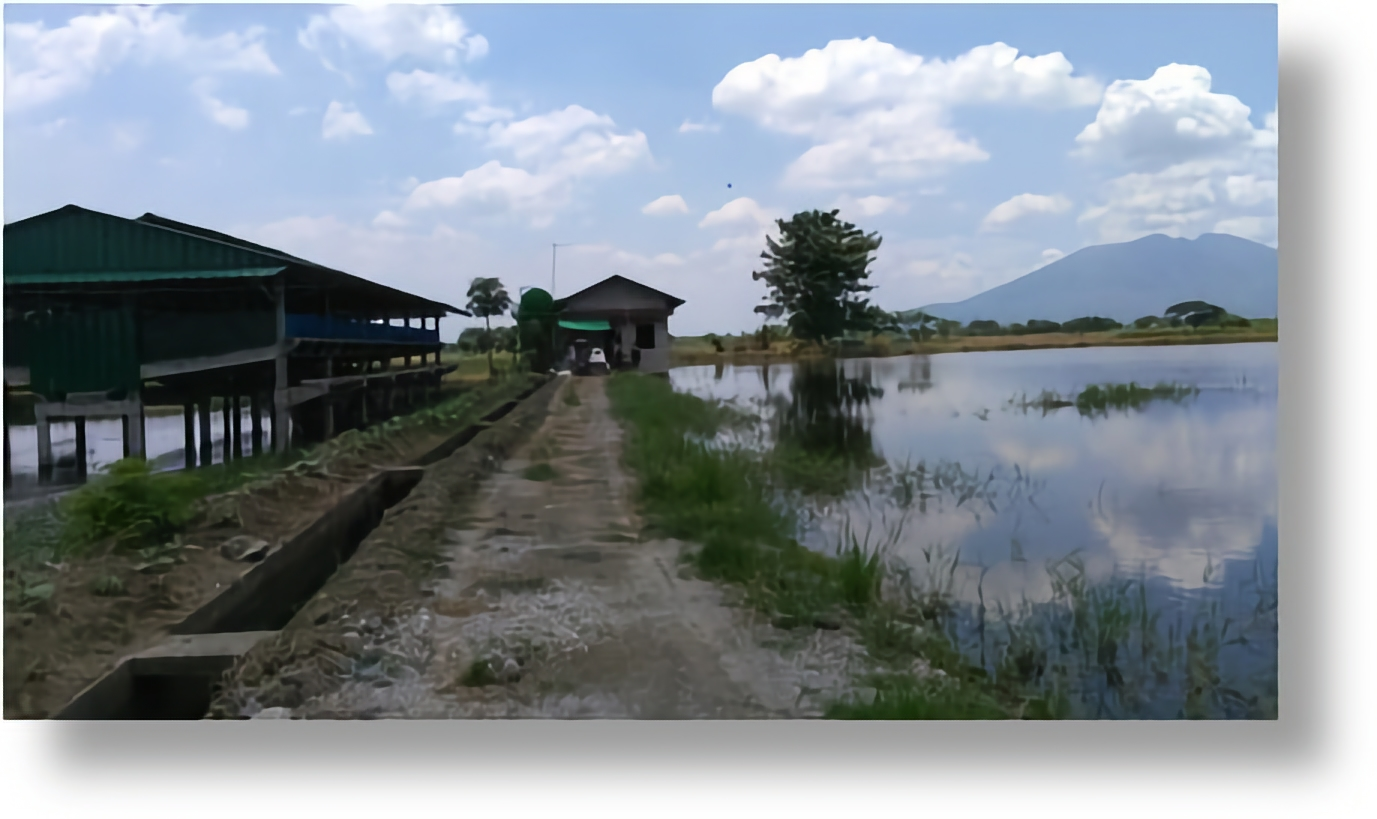
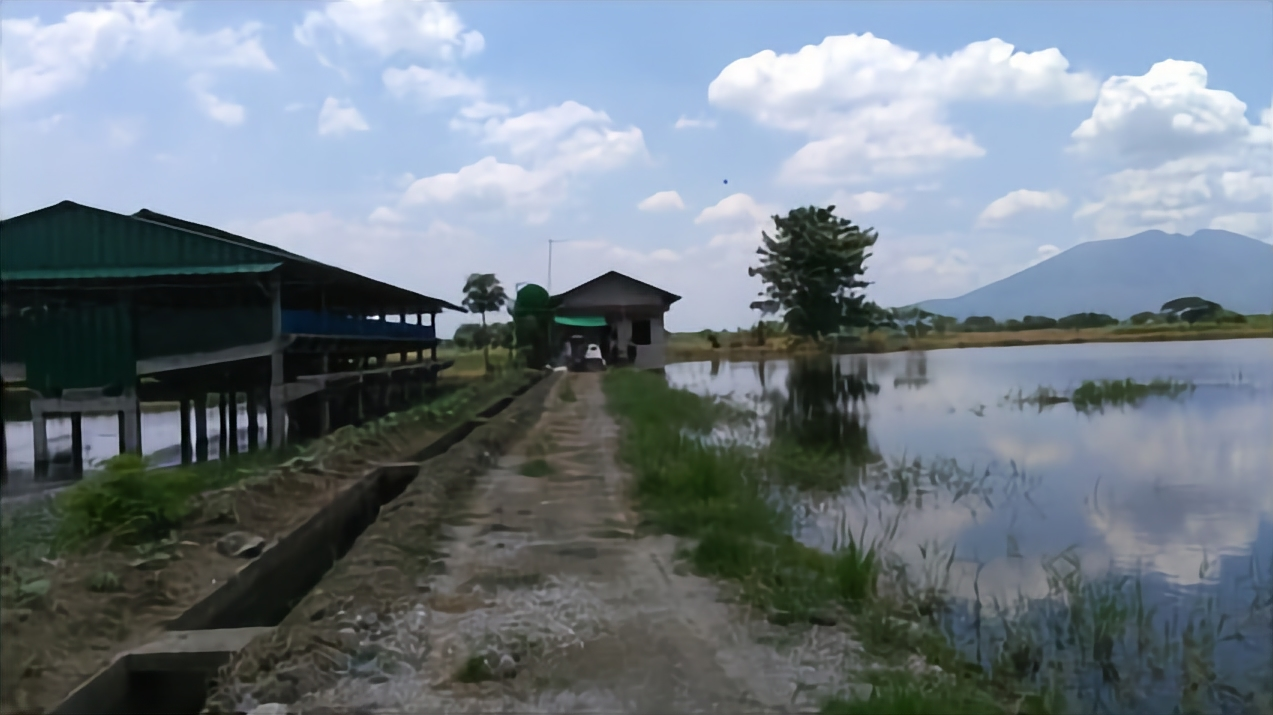
Fixed qr code image size, changed farm image to look a bit nicer

diff --git a/themes/capulong/static/css/style.css b/themes/capulong/static/css/style.css
@@ -170,7 +170,7 @@ body {
 
 /* Product Image with Watermark */
 .product-card .product-image {
-    position: relative;       /* crucial for watermark overlay */
+    position: relative;
     width: 100%;
     height: 200px;
     background: var(--bg-light);
@@ -187,7 +187,7 @@ body {
 }
 
 .product-card .product-image .watermark {
-    position: absolute;       /* overlay on top of image */
+    position: absolute;
     top: 50%;
     left: 50%;
     transform: translate(-50%, -50%) rotate(-25deg);
@@ -197,7 +197,7 @@ body {
     text-shadow: 2px 2px 6px rgba(0,0,0,0.5);
     pointer-events: none;
     white-space: nowrap;
-    z-index: 10;              /* ensure above image */
+    z-index: 10;
 }
 
 .product-card h4 {
@@ -216,7 +216,7 @@ body {
 /* About Section */
 .about-section {
     padding: 4rem 0;
-    background: var(--primary-color);  /* merged Hero+About now green */
+    background: var(--primary-color);
     color: var(--white);
 }
 
@@ -238,7 +238,7 @@ body {
     height: 400px;
     border-radius: 10px;
     overflow: hidden;
-    box-shadow: 0 4px 6px rgba(0,0,0,0.1);
+    box-shadow: 8px 8px 20px rgba(0,0,0,0.7);
 }
 
 .about-image img {
@@ -251,7 +251,7 @@ body {
     margin-bottom: 1rem;
     font-size: 1.1rem;
     line-height: 1.8;
-    color: var(--white); /* force white text on green background */
+    color: var(--white);
 }
 
 /* Contact Section */
@@ -302,16 +302,20 @@ body {
 .gcash-qr {
     margin-top: 1.5rem;
     text-align: center;
-    background: var(--white);
-    padding: 2rem;
+    background: transparent;
+    padding: 0;
     border-radius: 10px;
-    box-shadow: 0 4px 6px rgba(0,0,0,0.1);
+    box-shadow: 8px 8px 12px rgba(0,0,0,0.6);
+    display: inline-block;
+    overflow: hidden;
 }
 
 .gcash-qr img {
     max-width: 300px;
     width: 100%;
     height: auto;
+    display: block;
+    border-radius: 0;
 }
 
 /* WhatsApp Float Button */
@@ -328,7 +332,7 @@ body {
     align-items: center;
     justify-content: center;
     font-size: 40px;
-    box-shadow: 0 6px 12px rgba(0,0,0,0.3);
+    box-shadow: 0 6px 12px rgba(0,0,0,0.6);
     z-index: 1000;
     transition: transform 0.3s, box-shadow 0.3s;
     text-decoration: none;
@@ -336,7 +340,7 @@ body {
 
 .whatsapp-float:hover {
     transform: scale(1.1);
-    box-shadow: 0 8px 16px rgba(0,0,0,0.4);
+    box-shadow: 0 8px 16px rgba(0,0,0,0.6);
 }
 
 /* Footer */
@@ -361,7 +365,7 @@ body {
 
     .main-nav ul {
         gap: 1rem;
-        flex-wrap: wrap;
+        flex-wrap: nowrap;
         justify-content: center;
     }
 
@@ -382,8 +386,39 @@ body {
         grid-template-columns: 1fr;
     }
 
+    .about-image {
+        height: auto;
+        max-height: 400px;
+        box-shadow: 6px 6px 15px rgba(0,0,0,0.7);
+        background: transparent;
+    }
+
+    .about-image img {
+        width: 100%;
+        height: auto;
+        object-fit: contain;
+        display: block;
+    }
+
     .contact-grid {
         grid-template-columns: 1fr;
+    }
+
+    .gcash-qr {
+        padding: 0;
+        background: transparent;
+        box-shadow: 4px 4px 12px rgba(0,0,0,0.6);
+        margin-top: 1rem;
+        border-radius: 10px;
+        overflow: hidden;
+    }
+
+    .gcash-qr img {
+        max-width: 100%;
+        width: 100%;
+        height: auto;
+        display: block;
+        border-radius: 0;
     }
 
     .whatsapp-float {

diff --git a/themes/capulong/layouts/index.html b/themes/capulong/layouts/index.html
@@ -20,7 +20,7 @@
         <p style="color: white;">Located in Lanang Candaba Pampanga Philippines...</p>
         <p style="color: white;">We believe in sustainable farming practices...</p>
         <p style="color: white;">Our commitment is quality, freshness and supporting local agriculture.</p>
-      </div>     
+      </div>
     </div>
   </div>
 </section>
@@ -42,7 +42,7 @@
         <h3>Payment via GCash</h3>
         <p>Scan the QR code below to pay via GCash:</p>
         <div class="gcash-qr">
-          <img src="{{ .Site.Params.gcash_qr_image }}" alt="GCash QR Code" style="width: 50%; height: auto;">
+          <img src="{{ .Site.Params.gcash_qr_image }}" alt="GCash QR Code">
         </div>
       </div>
     </div>
@@ -182,8 +182,6 @@
     .gcash-qr {
       display: inline-block;
       background: white;
-      padding: 0.25rem;
-      border-radius: 8px;
       text-align: center;
     }
   </style>
